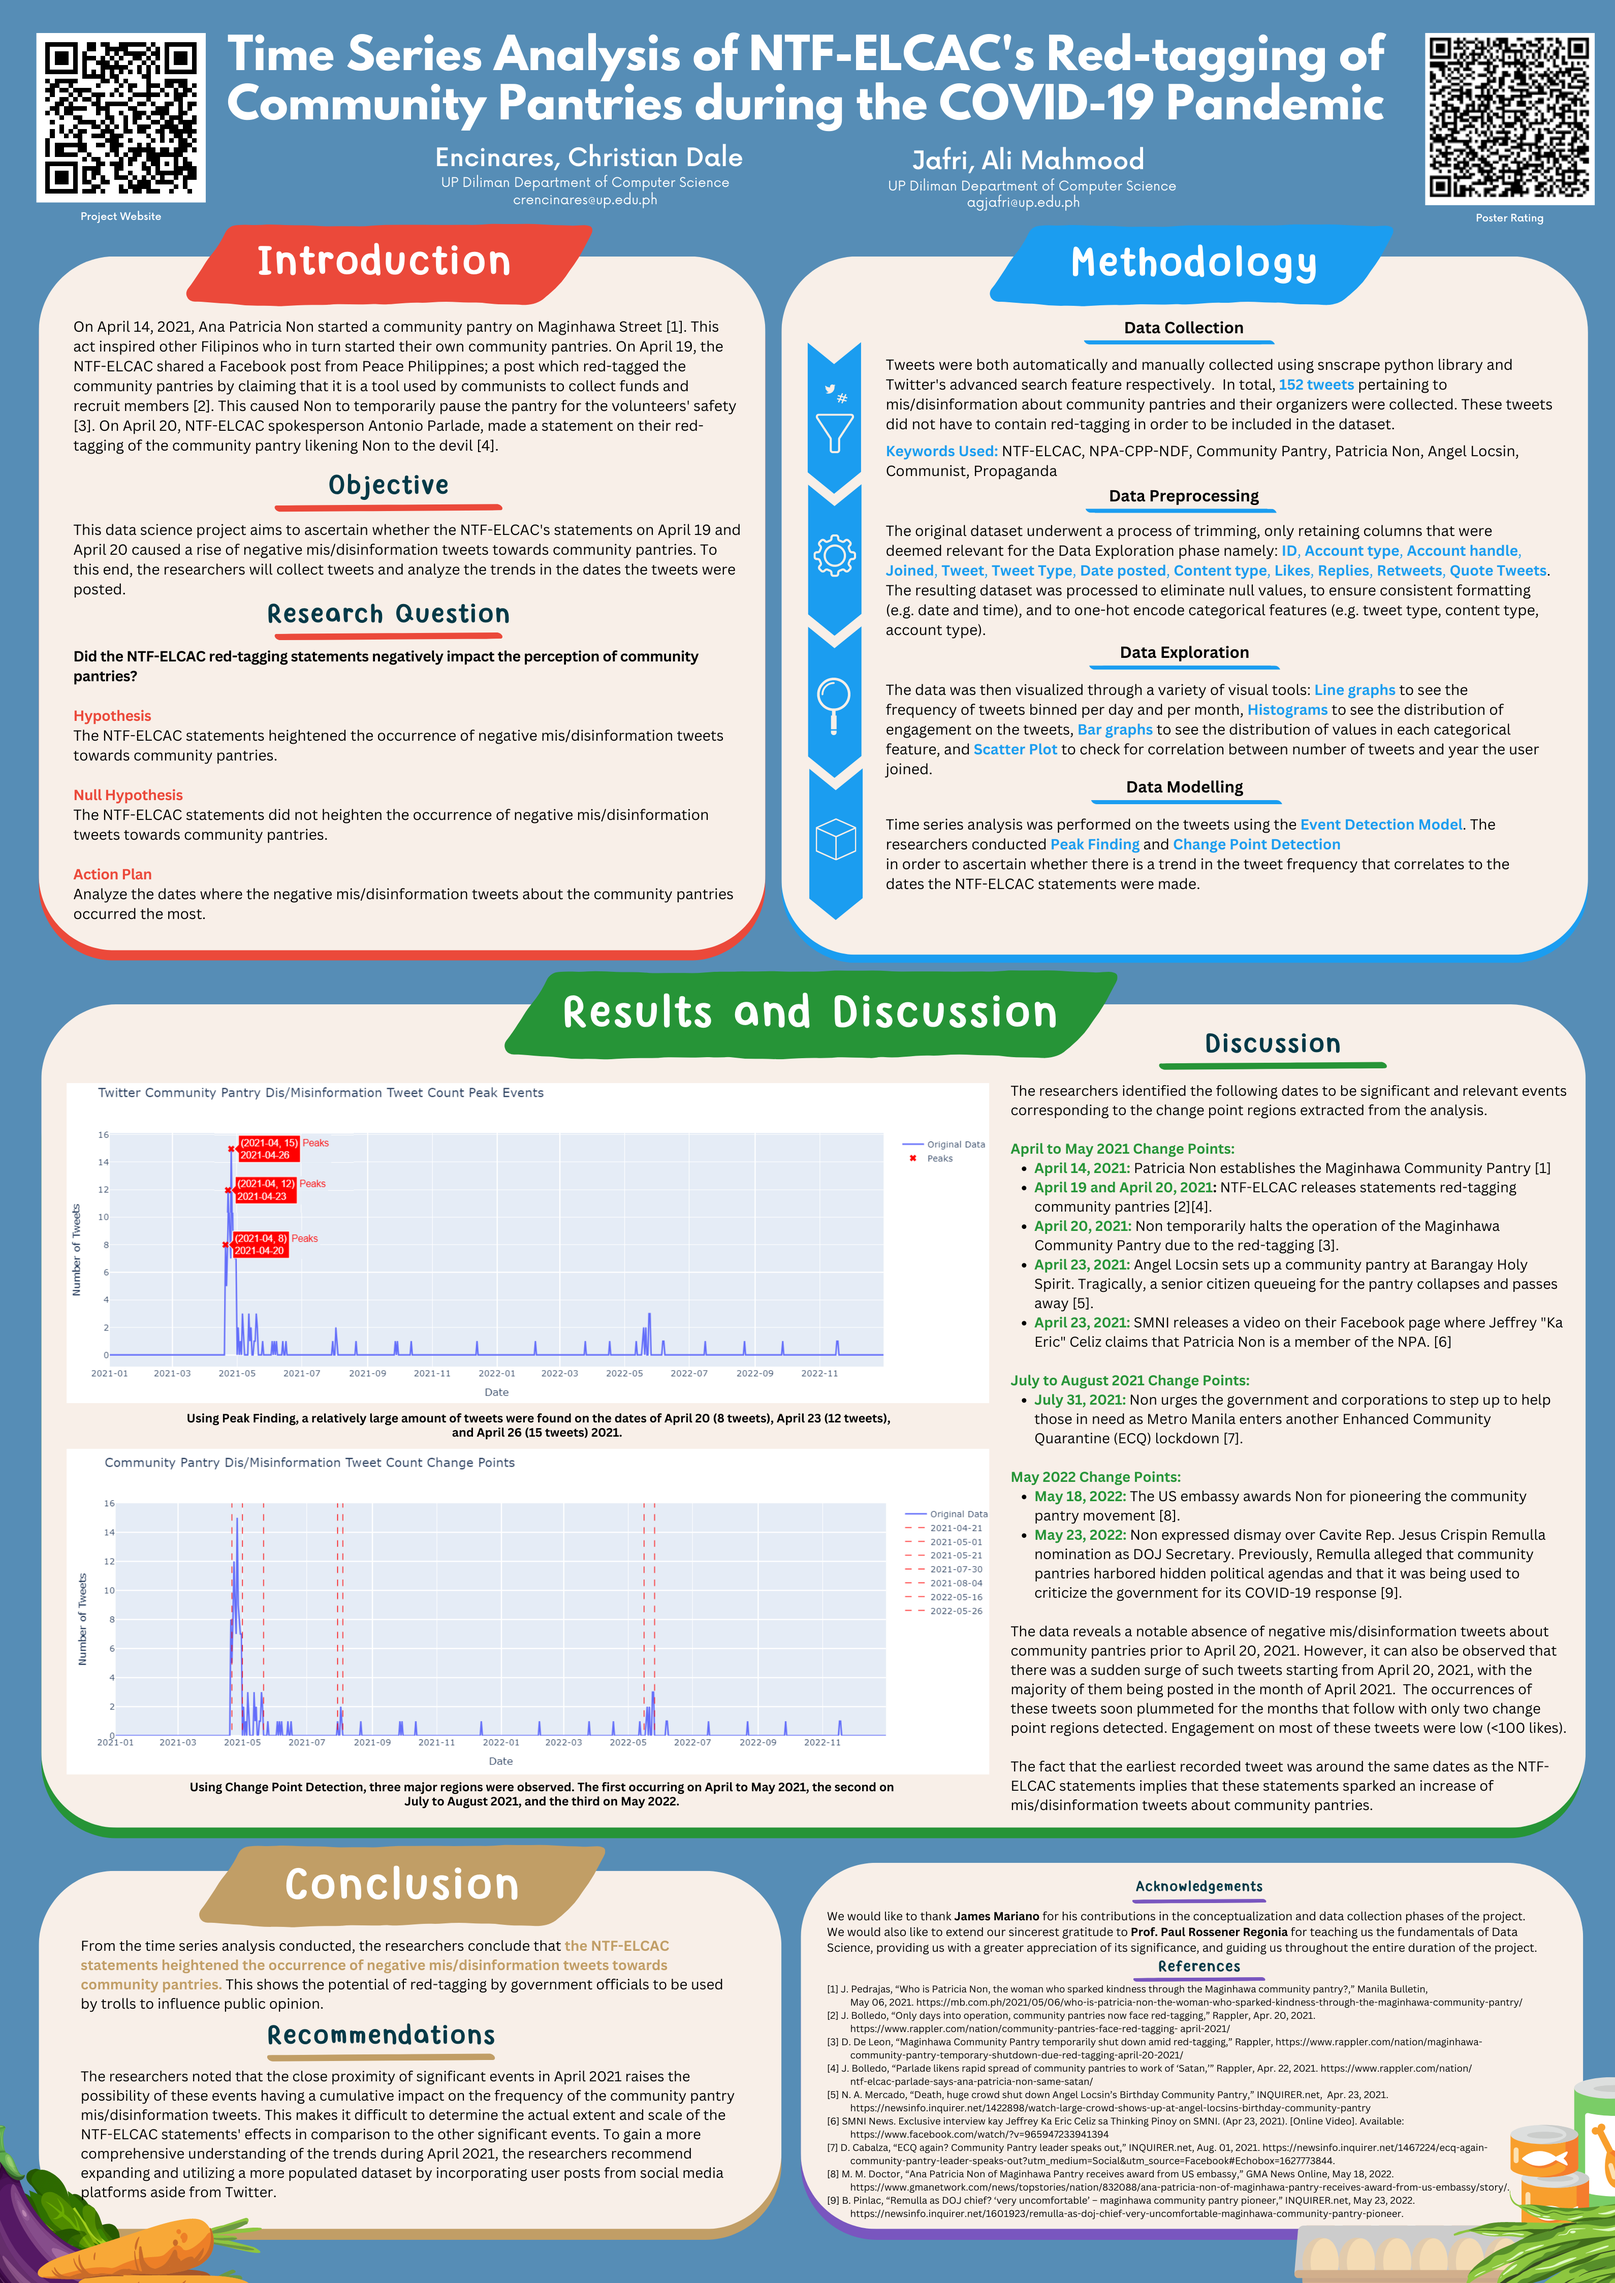
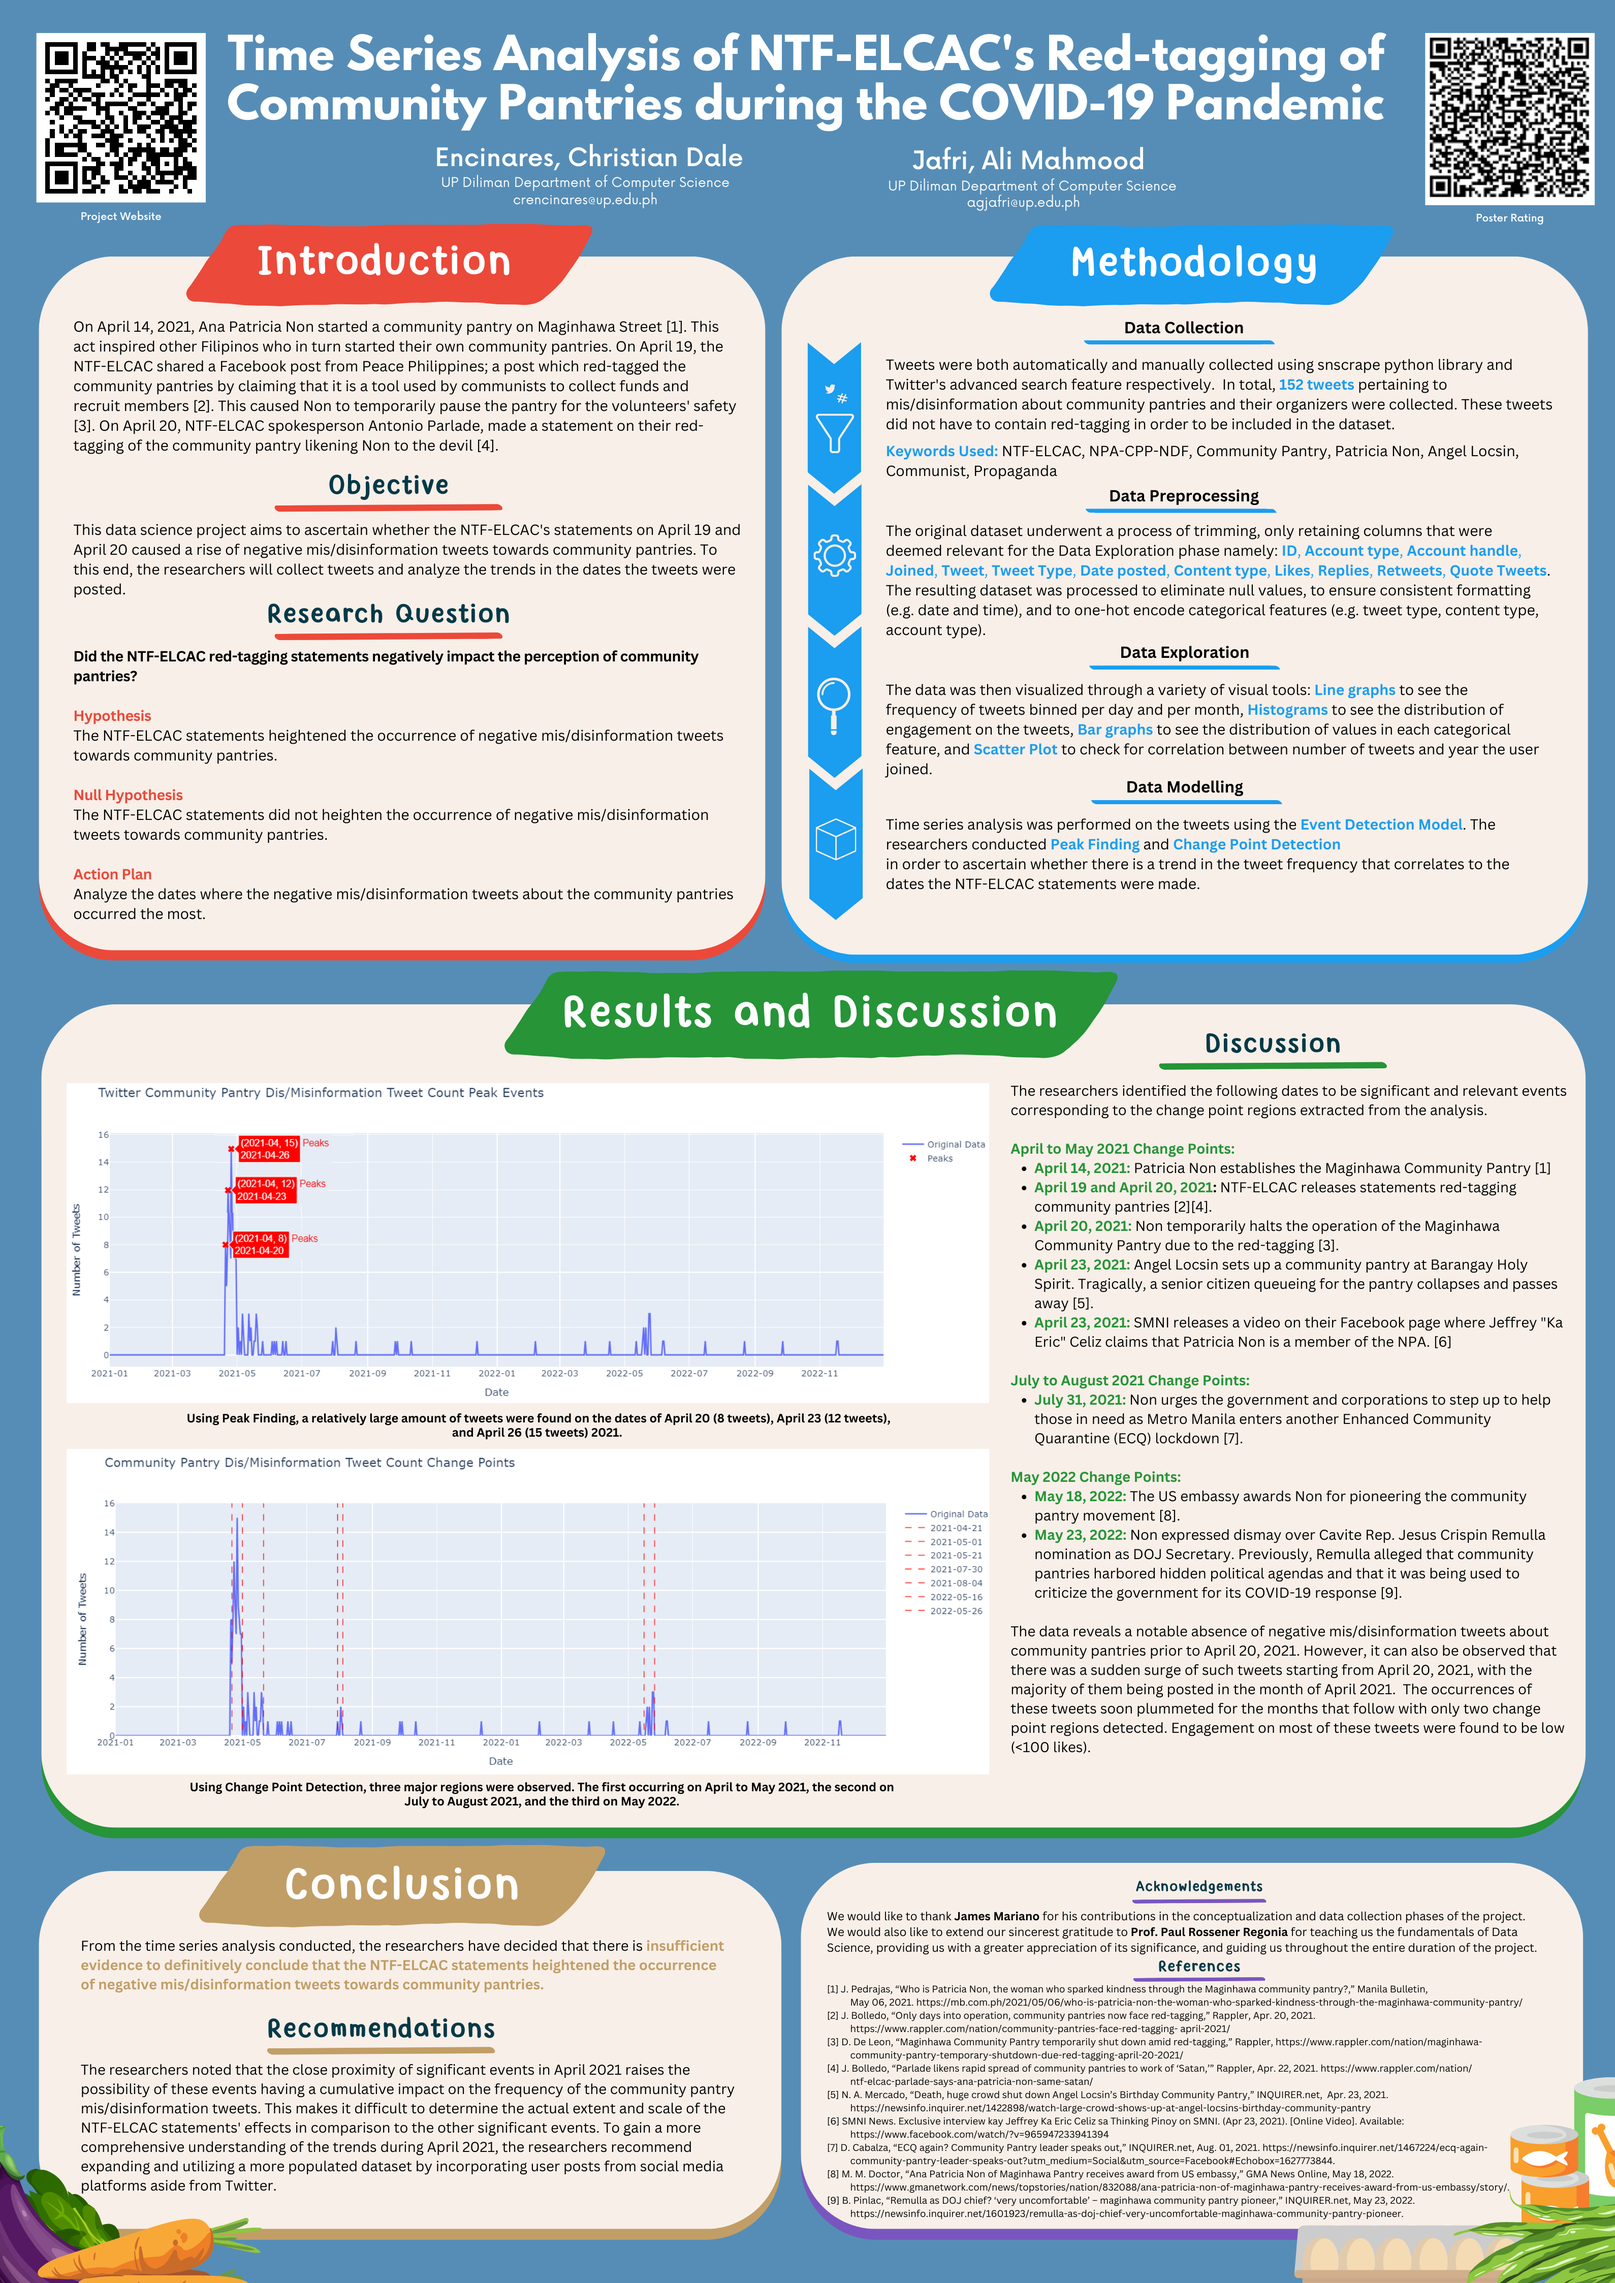
Updated Data Modelling section

Changed region(s): [[0.0311, 0.8411, 0.436, 0.9657], [0.9031, 0.7477, 0.9654, 0.7788], [0.7163, 0.7788, 0.7474, 0.81]]

diff --git a/index.html b/index.html
@@ -130,7 +130,7 @@
 				</div>
 			</article>
 			<!-- Exploration -->
-			<article id="exploration" class="wrapper style3">
+			<article id="exploration" class="wrapper style1">
 				<div class="container">
 					<header>
 						<div class="col-12 col-6-medium col-12-small">
@@ -150,12 +150,39 @@
 							<h2 style="margin-bottom: 4px">We used Computational Modelling to analyze our data</h2>	
 							<strong>Data Modelling</strong>
 						</div>
-					</header>	
-				</div>
+					</header>
+					<p class="explain">Given that the data we want to analyze is a time series, we used Event Detection Models to derive meaningful insights from such data. In particular, our team used Peak Finding and Change Point Detection as our Machine Learning models. Peak Finding was applied to identify the dates with the highest concentration of negative tweets, while Change Point Detection helped us pinpoint the dates when significant shifts occurred in the number of negative tweets. </p>
+					<p class="explain">For Peak Finding, our team only modified one of its parameters, the height parameter. It was set to a value of 4 which denotes that there must be at least 4 tweets on a given date for it to be considered a peak. From this, the Peak Finding Model detected three peaks occuring on the dates of April 20, 2021, April 23, 2021, and April 26, 2021 with 8, 12, and 15 fake news tweets respectively.</p>
+					<a href="#" class="image featured"><img src="images/PeakDetection.PNG" alt="" /></a>
+					<p class="explain">As for Change Point Detection, our team used the Pelt algorithm with the penalty value set to one. We believe that this penalty value accurately reflects the trends present in our data through mere visual inspection. The Change Point Detection Model detected seven change points occuring on the dates of April 21, 2021, May 1, 2021, May 21, 2021, July 30, 2021, August 4, 2021, May 16, 2022, and finally, May 26, 2022. We've noticed that these change points can be grouped together into 3 major periods occuring on April to May 2021, July to August 2021, and on May 2022.</p>
+					<a href="#" class="image featured"><img src="images/ChangePoint.PNG" alt="" /></a>
+					<p class="explain">From the results of these models and the patterns observed from the tweets themselves, we isolated and identified the following events to be probable causes of the peaks and change points in our data:</p>
+					<p class="explain"><strong>April to May 2021 Change Points:</strong></p>
+						<ul class="container" style="text-align: left">
+							<li><strong>April 14, 2021:</strong> Patricia Non establishes the Maginhawa Community Pantry. </li>
+							<li><strong>April 19 and April 20, 2021:</strong> NTF-ELCAC releases statements red-tagging community pantries.</li>
+							<li><strong>April 20, 2021:</strong> Non temporarily halts the operation of the Maginhawa Community Pantry due to the red-tagging.</li>
+							<li><strong>April 23, 2021:</strong> Angel Locsin sets up a community pantry at Barangay Holy Spirit. Tragically, a senior citizen queueing for the pantry collapses and passes away.</li>
+							<li><strong>April 23, 2021:</strong> SMNI releases a video on their Facebook page where Jeffrey "Ka Eric" Celiz claims that Patricia Non is a member of the NPA</li>
+						</ul>
+					<br>
+					<p class="explain">July to August 2021 Change Points:</p>
+						<ul class="container" style="text-align: left">
+							<li><strong>July 31, 2021:</strong> Non urges the government and corporations to step up to help those in need as Metro Manila enters another Enhanced Community Quarantine (ECQ) lockdown.  </li>
+						</ul>
+					<br>
+					<p class="explain">May 2022 Change Points:</p>
+					<ul class="container" style="text-align: left">
+						<li><strong>May 18, 2022:</strong> The US embassy awards Non for pioneering the community pantry movement</li>
+						<li><strong>May 23, 2022:</strong>  Non expressed dismay over Cavite Rep. Jesus Crispin Remulla nomination as DOJ Secretary. Previously, Remulla alleged that community pantries harbored hidden political agendas and that it was being used to criticize the government for its COVID-19 response.</li>
+					</ul>
+					<br>
+					<p class="explain">We've noticed that, prior to April 20, 2021, there is a significant lack of negative mis/disinformation tweets concerning community pantries. However, starting from April 20, 2021, there was a sudden surge in such tweets, predominantly observed during the month of April 2021. Subsequently, the frequency of these tweets sharply declined in the following months, with only two identified periods of significant change based on the change points detected after May 2021.</p>
+					<p class="explain"> Thus, our team has decided that we have <strong>insufficient evidence to conclude</strong> that the NTF-ELCAC red-tagging statements caused a spike in hate and mis/disinformation tweets towards community pantries. We believe that this is due to the lack of data prior to April 20, 2021. On top of this, the relevant and significant events in April 2021 are in close proximity to each other, making it difficult to determine the actual impact and influence that the NTF-ELCAC statement has on the peaks that follow. We recommend that future studies should focus on gathering more data from other social media platforms such as Facebook and Instagram to see the trend before the NTF-ELCAC statement.</p>	
 			</article>
 
 			<!-- Results -->
-			<article id="results" class="wrapper style3">
+			<article id="results" class="wrapper style1">
 				<div class="container">
 					<header>
 						<div class="col-12 col-6-medium col-12-small">
@@ -165,15 +192,15 @@
 					</header>
 					<div class="row">
 						<h3>Introduction</h3>
-						<p>Community pantries were heavily affected by red-tagging in 2021. Some were harassed by the police and had to close down temporarily. We wanted to see if government red-tagging of community pantries caused people to think negatively about the pantries.</p>
+						<p class="explain">In 2021, Community pantries were heavily affected by red-tagging from both citizens and government entities. Some were harassed by the police and had to close down temporarily. Our objective was to examine whether the government's,specifically the NTF-ELCAC's, red-tagging of community pantries influenced negative perceptions among the public towards these initiatives.</p>
 						<h3>Materials and Methods</h3>
-						<p>We collected various tweets that were against community pantries and contained dis/misinformation. Our main data are the dates when these tweets were posted. We used snscrape to get most of the tweets and collected the rest manually using Twitter's advanced search function. We then performed peak detection and change point detection to test our hypothesis. </p>
+						<p class="explain">We collected various tweets that were against community pantries and contained disinformation and misinformation. Our primary focus was on recording and analyzing the dates when these tweets were posted in order to compare them to NTF-ELCAC's statements on April 19 and April 20, 2021. We used snscrape to retrieve most of the tweets and collected the rest manually using Twitter's advanced search function. We then performed peak detection and change point detection to test our hypothesis. </p>
 						<h3>Results and Discussion</h3>
-						<p>Due to not finding any tweets earlier than April 20, 2021, whether the NTF-ELCAC statement caused a spike in hate and mis/disinformation tweets towards community pantries can not be concluded. The authors recommend getting a bigger dataset with posts from other social media as well to see the trend before the NTF-ELCAC statement.</p>
+						<p class="explain">Given the absence of tweets prior to April 20, 2021, it is inconclusive whether the NTF-ELCAC statement resulted in an increase in hate and mis/disinformation tweets directed at community pantries. In order to ascertain the trend preceding the NTF-ELCAC statement, for future studies conducted on this topic,we suggest acquiring a larger dataset that includes posts from other social media platforms as well. </p>
 						<h3>Implications</h3>
-						<p>Finding a link between red-tagging by organizations or well-known people and troll or dis/misinformation posts would mean that regulations should be set regarding red-tagging. Red-tagging with no evidence should be punishable due to the possible harm it can cause like what the community pantries experienced.</p>
+						<p class="explain">Establishing a correlation between red-tagging by organizations or prominent individuals and the presence of troll, disinformation, and misinformation posts highlights the need for regulations concerning red-tagging. Unwarranted and wanton red-tagging should should be subject to penalities due to the possible harm it can inflict, as exemplified by what the organizers of the community pantries experienced.</p>
 						<h3>Conclusion </h3>
-						<p>Though the effect of the NTF-ELCAC statement on negative Twitter posts is uncertain. The authors think this is important to continue to find out if red-tagging increases hate and disinformation towards certain things so what happened to the community pantries in 2021 won't happen to other humanitarian movements and programs.</p>
+						<p class="explain">Our team has concluded that we can neither reject nor accept the null hypothesis due to insufficient data and evidence. Though the effect of the NTF-ELCAC statement on negative Twitter posts is uncertain, we would like to emphasize the importance of these types of studies in order to determine and highlight the damages that red-tagging can do to both organizations and individuals alike. By doing so, we can put measures in place to prevent these kinds of detrimental events from reoccuring, safeguarding our community's humanitarian movements and programs.</p>
 					</div>
 					<footer>
 						<p>Want to learn more? Take a look at our source codes.</p>
